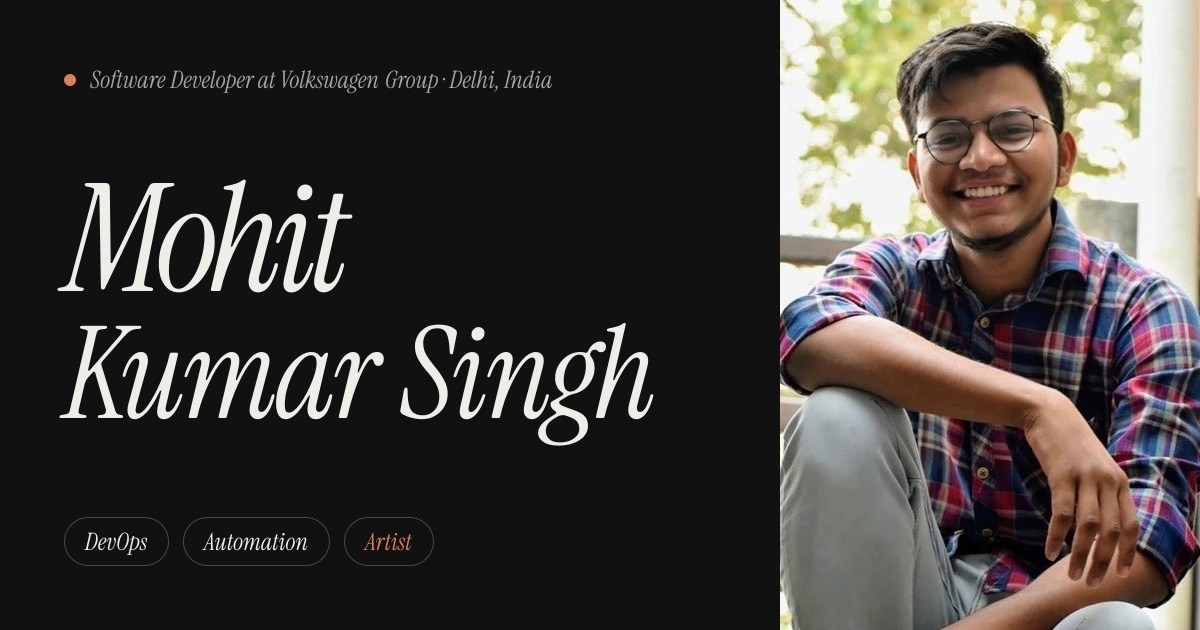
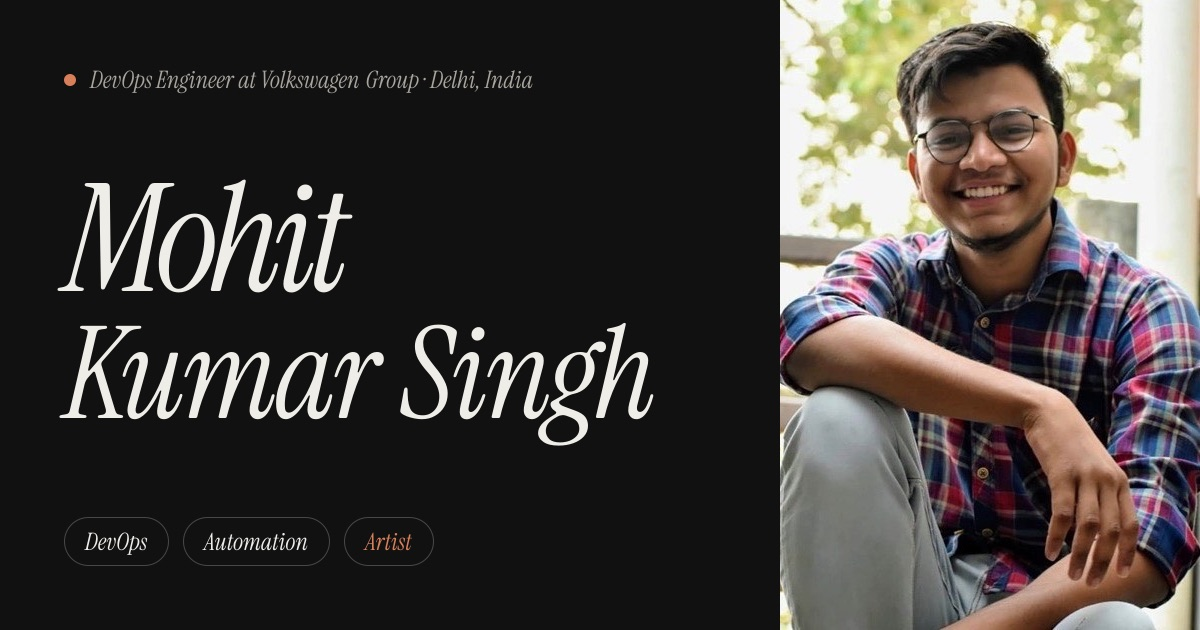
DevOps Engineer title; paper cutting is now Sanjhi art with a definition
- Use "DevOps Engineer" everywhere (hero, work, experience, title,
  search description, share banner and its alt text)
- Rename paper cutting/carving to Sanjhi art across copy, gallery and
  skills
- Hover/focus/tap on "Sanjhi" shows a short definition card (portalled
  so text masks can't clip it; screen readers get it with the sentence)

Changed region(s): [[0.0617, 0.0905, 0.4625, 0.1508]]

diff --git a/lib/content.ts b/lib/content.ts
@@ -5,10 +5,10 @@ import type { IconName } from "@/components/Icons";
 export const site = {
   firstName: "Mohit",
   lastName: "Kumar Singh",
-  role: "Software Developer",
+  role: "DevOps Engineer",
   company: "Volkswagen Group Technology Solutions India",
   // Short status shown with the pulsing dot in the hero.
-  status: "Software Developer at Volkswagen Group",
+  status: "DevOps Engineer at Volkswagen Group",
   // What you focus on — shown under the status line, in the share image and the page title.
   focus: "DevOps & Automation",
   location: "Delhi, India",
@@ -22,9 +22,9 @@ export const site = {
   resume: "",
   portrait: "/images/portrait.jpg",
   intro:
-    "I work in DevOps at Volkswagen Group, automating build and release pipelines and helping teams improve how they work. I'm also an artist. I paint murals, cut paper by hand, and I once ran a café.",
+    "I'm a DevOps engineer at Volkswagen Group, automating build and release pipelines and helping teams improve how they work. I'm also an artist. I make Sanjhi art, paint murals, and I once ran a café.",
   about:
-    "I studied Computer Science at AKGEC and spent three years running the college's fine-art society. Since 2023 I've worked at Volkswagen Group on DevOps and automation. Outside work I still make art: murals, paper cuts and drawings.",
+    "I studied Computer Science at AKGEC and spent three years running the college's fine-art society. Since 2023 I've been a DevOps engineer at Volkswagen Group. Outside work I still make art: Sanjhi, murals and drawings.",
   education: [
     { title: "B.Tech, Computer Science", place: "AKGEC, Ghaziabad · 2019–2023" },
     { title: "Class XII, 93.2% (PCM)", place: "Bloomingdale School, Badaun · 2018" },
@@ -44,41 +44,47 @@ export const site = {
   ],
 };
 
+// Words that get a hover/tap definition wherever they appear in running text.
+export const terms: Record<string, string> = {
+  Sanjhi:
+    "A traditional paper-cutting art from the Braj region of Uttar Pradesh (Mathura and Vrindavan). Intricate designs, often from Krishna legends, are cut by hand into paper stencils, traditionally used to make rangoli in temples. It has a GI tag.",
+};
+
 // The Art section.
 export const art = {
   instagram: { handle: "@kalakari_by_mks", href: "https://instagram.com/kalakari_by_mks" },
   intro:
-    "I've made art for as long as I've written code. Most of it is paper cutting, done by hand with a surgical blade.",
+    "I've made art since school. Most of it is Sanjhi, cut by hand with a surgical blade.",
   highlights: [
     { title: "Freelance wall murals", detail: "Murals painted for clients as a freelancer." },
     { title: "Ran a café", detail: "Owned and ran my own café." },
     { title: "Team Footprints", detail: "Artist and head of operations at AKGEC's fine-art society for over three years." },
-    { title: "Paper carving", detail: "Cut by hand with a surgical blade. One piece takes 5 to 14 hours." },
+    { title: "Sanjhi art", detail: "Cut by hand with a surgical blade. One piece takes 5 to 14 hours." },
   ],
 };
 
 // Drop artwork photos into public/art/ and list them here — the gallery in the Art section appears automatically.
 // Pieces from @kalakari_by_mks.
 export const artworks: { src: string; title: string; detail?: string }[] = [
-  { src: "/art/under-the-wolfs-skin.jpg", title: "Under the Wolf's Skin", detail: "Paper cut · surgical blade · ~6 hrs" },
+  { src: "/art/under-the-wolfs-skin.jpg", title: "Under the Wolf's Skin", detail: "Sanjhi · surgical blade · ~6 hrs" },
   { src: "/art/point-of-view-neon.jpg", title: "Point of View", detail: "Neon tubes & acrylic · ~9 hrs" },
-  { src: "/art/voyages-unknown.jpg", title: "Voyages Unknown", detail: "Paper cut · ~5 hrs" },
-  { src: "/art/waqt.jpg", title: "Waqt", detail: "Paper cut portrait · ~10 hrs" },
-  { src: "/art/the-eyes.jpg", title: "The Eyes", detail: "Paper cut · ~5 hrs" },
-  { src: "/art/on-the-wings.jpg", title: "On the Wings", detail: "Paper cut · ~10 hrs" },
-  { src: "/art/perfection-is-a-flaw.jpg", title: "Perfection Is a Flaw", detail: "Paper cut · ~14 hrs" },
-  { src: "/art/and-still.jpg", title: "And Still", detail: "Paper cut" },
+  { src: "/art/voyages-unknown.jpg", title: "Voyages Unknown", detail: "Sanjhi · ~5 hrs" },
+  { src: "/art/waqt.jpg", title: "Waqt", detail: "Sanjhi portrait · ~10 hrs" },
+  { src: "/art/the-eyes.jpg", title: "The Eyes", detail: "Sanjhi · ~5 hrs" },
+  { src: "/art/on-the-wings.jpg", title: "On the Wings", detail: "Sanjhi · ~10 hrs" },
+  { src: "/art/perfection-is-a-flaw.jpg", title: "Perfection Is a Flaw", detail: "Sanjhi · ~14 hrs" },
+  { src: "/art/and-still.jpg", title: "And Still", detail: "Sanjhi" },
   { src: "/art/laal-bindi.jpg", title: "Laal Bindi", detail: "Graphite on paper" },
-  { src: "/art/a-tale-of-eyes.jpg", title: "A Tale of Eyes, Soul and Heart", detail: "Paper cut" },
+  { src: "/art/a-tale-of-eyes.jpg", title: "A Tale of Eyes, Soul and Heart", detail: "Sanjhi" },
   { src: "/art/turn-on-the-light.jpg", title: "Turn On the Light", detail: "Light art" },
-  { src: "/art/happy-halloween.jpg", title: "Happy Halloween", detail: "Paper cut · ~8 hrs" },
+  { src: "/art/happy-halloween.jpg", title: "Happy Halloween", detail: "Sanjhi · ~8 hrs" },
 ];
 
 export const skills: { group: string; items: string[] }[] = [
   { group: "DevOps & Automation", items: ["CI/CD", "Docker", "GitHub Actions", "Linux", "Scripting", "Process automation"] },
   { group: "AI", items: ["LLM apps", "Prompt engineering", "AI agents", "Python"] },
   { group: "Code & Data", items: ["Java", "Spring Boot", "SQL", "TypeScript", "C++ & DSA", "Git & GitHub"] },
-  { group: "Art", items: ["Wall murals", "Painting", "Paper carving", "Art direction"] },
+  { group: "Art", items: ["Wall murals", "Painting", "Sanjhi art", "Art direction"] },
 ];
 
 export const timeline: { year: string; items: { title: string; detail: string }[] }[] = [
@@ -86,8 +92,8 @@ export const timeline: { year: string; items: { title: string; detail: string }[
     year: "2023",
     items: [
       {
-        title: "DevOps · Volkswagen Group",
-        detail: "Software developer at Volkswagen Group Technology Solutions India, Gurugram, since August 2023. I work on DevOps: automating pipelines and helping teams with their processes.",
+        title: "DevOps Engineer · Volkswagen Group",
+        detail: "DevOps engineer at Volkswagen Group Technology Solutions India, Gurugram, since August 2023. I automate pipelines and help teams with their processes.",
       },
       { title: "Graduated · B.Tech CSE", detail: "AKGEC, Ghaziabad. Final-year project: an app that detects malicious URLs." },
     ],
@@ -127,7 +133,7 @@ export type Project = {
 export const projects: Project[] = [
   {
     title: "Volkswagen Group",
-    category: "DevOps & Automation · Full-time",
+    category: "DevOps Engineer · Full-time",
     icon: "gear",
     description:
       "I automate build and release pipelines and the repetitive work around them, and help other teams streamline their processes so they ship faster.",

diff --git a/components/Term.tsx b/components/Term.tsx
@@ -1,0 +1,122 @@
+"use client";
+
+import { AnimatePresence, motion } from "motion/react";
+import { Fragment, useEffect, useId, useRef, useState, useSyncExternalStore } from "react";
+import { createPortal } from "react-dom";
+import { terms } from "@/lib/content";
+import { SPRING_SNAPPY } from "@/lib/motion";
+
+const useIsClient = () =>
+  useSyncExternalStore(
+    () => () => {},
+    () => true,
+    () => false,
+  );
+
+// A word with a dotted underline that explains itself: hover or focus shows a definition, tap toggles it.
+// The card is portalled to <body> so text-reveal masks can't clip it.
+export function Term({ word, children, decorative = false }: { word: string; children: React.ReactNode; decorative?: boolean }) {
+  const definition = terms[word];
+  const isClient = useIsClient();
+  const [open, setOpen] = useState(false);
+  const [pos, setPos] = useState({ x: 0, y: 0, above: true });
+  const ref = useRef<HTMLButtonElement>(null);
+  const id = useId();
+
+  const show = () => {
+    const r = ref.current!.getBoundingClientRect();
+    const half = Math.min(144, (window.innerWidth - 32) / 2);
+    const x = Math.min(Math.max(r.left + r.width / 2, 16 + half), window.innerWidth - 16 - half);
+    const above = r.top > 200;
+    setPos({ x, y: above ? r.top - 10 : r.bottom + 10, above });
+    setOpen(true);
+  };
+
+  useEffect(() => {
+    if (!open) return;
+    const close = () => setOpen(false);
+    const onKey = (e: KeyboardEvent) => e.key === "Escape" && close();
+    const onDown = (e: PointerEvent) => !ref.current?.contains(e.target as Node) && close();
+    window.addEventListener("scroll", close, { passive: true });
+    window.addEventListener("keydown", onKey);
+    window.addEventListener("pointerdown", onDown);
+    return () => {
+      window.removeEventListener("scroll", close);
+      window.removeEventListener("keydown", onKey);
+      window.removeEventListener("pointerdown", onDown);
+    };
+  }, [open]);
+
+  if (!definition) return <>{children}</>;
+
+  return (
+    <>
+      <button
+        ref={ref}
+        type="button"
+        // Inside animated text the words are aria-hidden, so the button there is mouse/touch only;
+        // the definition is read out with the plain-text version instead.
+        tabIndex={decorative ? -1 : undefined}
+        aria-describedby={open ? id : undefined}
+        onMouseEnter={(e) => e.nativeEvent instanceof MouseEvent && show()}
+        onMouseLeave={() => setOpen(false)}
+        onFocus={show}
+        onBlur={() => setOpen(false)}
+        onClick={() => (open ? setOpen(false) : show())}
+        className="cursor-help underline decoration-current/40 decoration-dotted decoration-1 underline-offset-[0.18em] transition-[text-decoration-color] hover:decoration-current"
+      >
+        {children}
+      </button>
+      {isClient &&
+        createPortal(
+          <AnimatePresence>
+            {open && (
+              <div
+                className="pointer-events-none fixed z-[80]"
+                style={{ left: pos.x, top: pos.y, transform: `translate(-50%, ${pos.above ? "-100%" : "0"})` }}
+              >
+                <motion.span
+                  id={id}
+                  role="tooltip"
+                  className="block w-[min(18rem,calc(100vw-2rem))] rounded-2xl bg-ink px-4 py-3 text-left text-sm font-normal not-italic leading-snug tracking-normal text-paper shadow-2xl shadow-black/30"
+                  style={{ transformOrigin: pos.above ? "bottom center" : "top center" }}
+                  initial={{ opacity: 0, scale: 0.92, y: pos.above ? 6 : -6, filter: "blur(4px)" }}
+                  animate={{ opacity: 1, scale: 1, y: 0, filter: "blur(0px)" }}
+                  exit={{ opacity: 0, scale: 0.96, transition: { duration: 0.12 } }}
+                  transition={SPRING_SNAPPY}
+                >
+                  <span className="mb-1 block font-serif text-lg italic">{word}</span>
+                  {definition}
+                </motion.span>
+              </div>
+            )}
+          </AnimatePresence>,
+          document.body,
+        )}
+    </>
+  );
+}
+
+// Plain text with any glossary words turned into <Term>s.
+export function TermText({ text }: { text: string }) {
+  const pattern = new RegExp(`\\b(${Object.keys(terms).join("|")})\\b`, "g");
+  return (
+    <>
+      {text.split(pattern).map((part, i) =>
+        terms[part] ? (
+          <Term key={i} word={part}>
+            {part}
+          </Term>
+        ) : (
+          <Fragment key={i}>{part}</Fragment>
+        ),
+      )}
+    </>
+  );
+}
+
+// The glossary word a single token belongs to, ignoring punctuation ("Sanjhi," → "Sanjhi").
+export const termFor = (token: string) => {
+  const bare = token.replace(/[^\p{L}]/gu, "");
+  return terms[bare] ? bare : null;
+};

diff --git a/components/ui.tsx b/components/ui.tsx
@@ -2,7 +2,9 @@
 
 import { motion, useMotionValue, useSpring } from "motion/react";
 import { useEffect, useRef, useState } from "react";
+import { terms } from "@/lib/content";
 import { EASE_OUT, SPRING } from "@/lib/motion";
+import { Term, termFor } from "./Term";
 
 // Words slide up from behind a mask. Plays on scroll, or when `play` becomes true.
 export function RevealText({
@@ -19,6 +21,8 @@ export function RevealText({
   play?: boolean;
 }) {
   const words = text.split(" ");
+  // Glossary words (e.g. "Sanjhi") get a hover definition; screen readers hear it after the sentence.
+  const defined = [...new Set(words.map(termFor).filter((t): t is string => !!t))];
   // The trigger sits on the visible wrapper: the masked words themselves start fully clipped,
   // so an IntersectionObserver on them would never fire.
   const trigger =
@@ -29,7 +33,10 @@ export function RevealText({
   return (
     <motion.span className={className} initial="hidden" {...trigger}>
       {/* Screen readers get the plain sentence; the split, animated words are hidden from them. */}
-      <span className="sr-only">{text}</span>
+      <span className="sr-only">
+        {text}
+        {defined.map((t) => ` (${t}: ${terms[t]})`).join("")}
+      </span>
       {words.map((word, i) => (
         <span key={i} aria-hidden>
           {/* Padding (cancelled by negative margins) keeps descenders and italic overhang inside the mask. */}
@@ -39,7 +46,13 @@ export function RevealText({
               variants={{ hidden: { y: "110%" }, show: { y: "0%" } }}
               transition={{ duration: 0.9, ease: EASE_OUT, delay: delay + i * stagger }}
             >
-              {word}
+              {termFor(word) ? (
+                <Term word={termFor(word)!} decorative>
+                  {word}
+                </Term>
+              ) : (
+                word
+              )}
             </motion.span>
           </span>
           {i < words.length - 1 && " "}

diff --git a/components/Art.tsx b/components/Art.tsx
@@ -4,6 +4,7 @@ import Image from "next/image";
 import { motion } from "motion/react";
 import { art, artworks } from "@/lib/content";
 import { EASE_OUT, FADE_UP, SPRING_GENTLE } from "@/lib/motion";
+import { TermText } from "./Term";
 import { Magnetic, RevealText } from "./ui";
 
 // The artist side: murals, the café, the fine-art society — plus a gallery once photos are added.
@@ -42,7 +43,9 @@ export function Art() {
               {...FADE_UP}
               transition={{ ...SPRING_GENTLE, delay: (i % 2) * 0.08 }}
             >
-              <h3 className="mb-2 text-2xl tracking-tight md:text-3xl">{h.title}</h3>
+              <h3 className="mb-2 text-2xl tracking-tight md:text-3xl">
+                <TermText text={h.title} />
+              </h3>
               <p className="max-w-sm leading-snug text-muted">{h.detail}</p>
             </motion.li>
           ))}

diff --git a/components/About.tsx b/components/About.tsx
@@ -5,6 +5,7 @@ import { animate, motion, MotionValue, useInView, useMotionValue, useScroll, use
 import { useEffect, useRef } from "react";
 import { site } from "@/lib/content";
 import { EASE_IN_OUT, EASE_OUT } from "@/lib/motion";
+import { Term, termFor } from "./Term";
 import { RevealText } from "./ui";
 
 function Word({ word, progress, range }: { word: string; progress: MotionValue<number>; range: [number, number] }) {
@@ -12,7 +13,7 @@ function Word({ word, progress, range }: { word: string; progress: MotionValue<n
   const opacity = useTransform(progress, range, [0.28, 1]);
   return (
     <motion.span style={{ opacity }} className="inline-block">
-      {word}&nbsp;
+      {termFor(word) ? <Term word={termFor(word)!}>{word}</Term> : word}&nbsp;
     </motion.span>
   );
 }

diff --git a/app/layout.tsx b/app/layout.tsx
@@ -19,8 +19,8 @@ const instrument = Instrument_Serif({
 });
 
 const name = `${site.firstName} ${site.lastName}`;
-const title = `${name} | ${site.role}, ${site.focus}`;
-const description = `${name} is a software developer at Volkswagen Group working on DevOps and automation, and an artist.`;
+const title = `${name} | ${site.role}`;
+const description = `${name} is a DevOps engineer at Volkswagen Group, and an artist who makes Sanjhi art and murals.`;
 
 // opengraph-image.tsx and icon.tsx are picked up automatically; metadataBase makes their URLs absolute.
 export const metadata: Metadata = {
